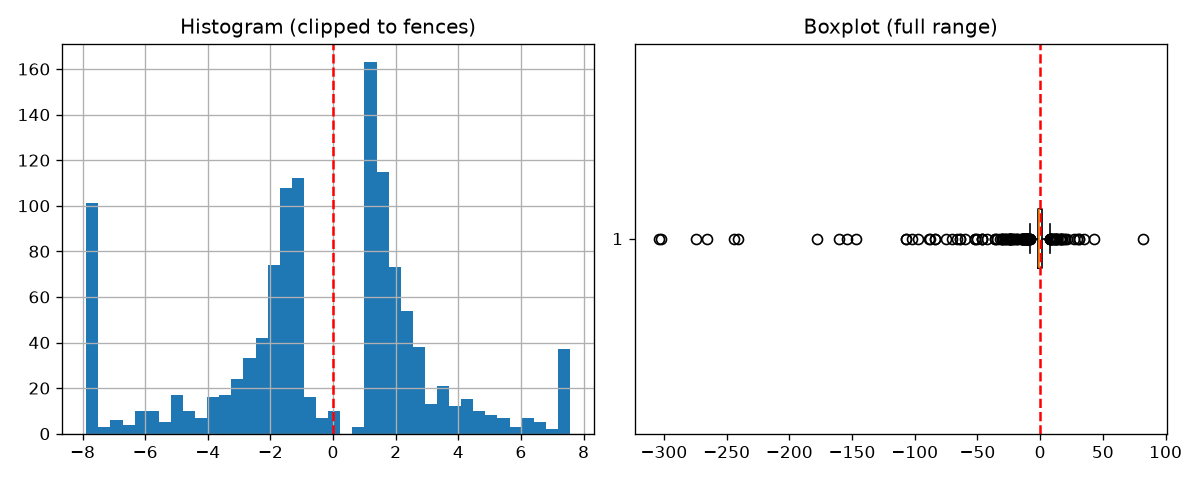
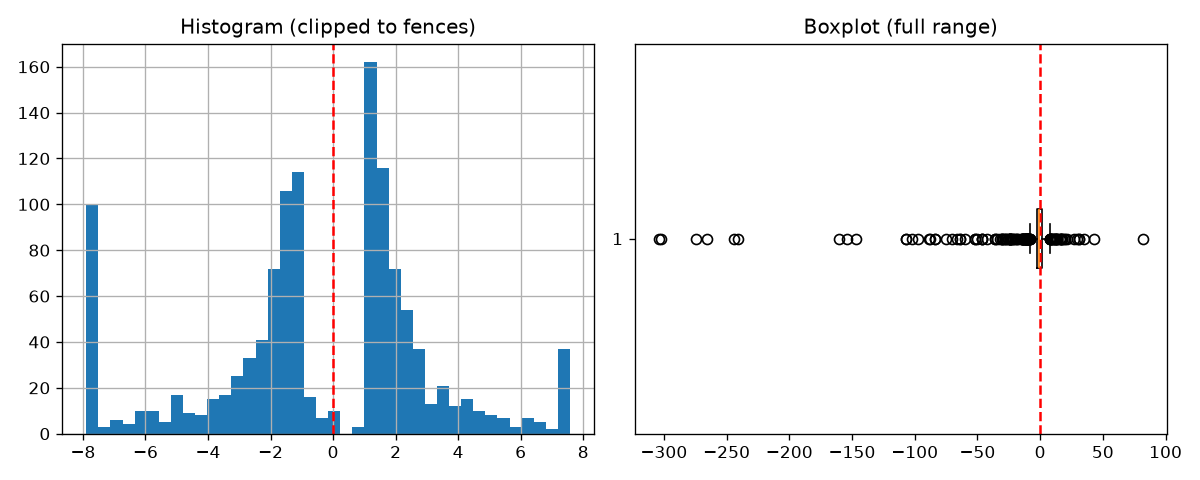
1. save only first img of a post (validate only first) 2. buffer the result, if more posts has the same img (first one) keep only the one with more engagement

diff --git a/scripts/filter.py b/scripts/filter.py
@@ -28,20 +28,20 @@ def _url_to_stem(url: str, char_limit: int = CHAR_LIMIT) -> str:
     return hashlib.sha256(url.encode()).hexdigest()[:char_limit]
 
 
-def _is_valid_post(data: dict, hash_map: dict[str, list[Path]]) -> tuple[list[Path]] | None:
+def _is_valid_post(data: dict, hash_map: dict[str, list[Path]]) -> Path | None:
     """
-    Checks if a post is valid based on the specified filters and returns the list of image paths if valid.
+    Checks if a post is valid based on the specified filters and returns the image representing it if valid.
 
     A post is valid if:
     - It has a score
-    - All its media items are photos and have a matching file in the hash map
+    - Its first media item is a photo and has a matching file in the hash map
 
     Args:
         data:     Parsed JSON object representing a single post.
         hash_map: Mapping from URL sha256 hash (filename stem) to the list of matching image paths.
 
     Returns:
-        A list of image paths associated with the post, or None if the post does not pass the filters.
+        The image path representing the post, or None if the post does not pass the filters.
     """
 
     if not isinstance(data, dict) or len(data) == 0:
@@ -59,35 +59,32 @@ def _is_valid_post(data: dict, hash_map: dict[str, list[Path]]) -> tuple[list[Pa
     if not media or not isinstance(media, list) or len(media) == 0:
         print(f"WARNING: post '{data.get('id')}' rejected for missing media.")
         return None
+    # Save only the first media (the one that represents more the post)
+    image = media[0]
 
-    images = []
-    for item in media:
-        # Reject the entire post if ANY media item is not a photo
-        if item.get("type") != "photo":
-            print(f"WARNING: post '{data.get('id')}' rejected for non-photo media item.")
-            return None
-        image_url = item.get("url") or item.get("full")
-        if not image_url:
-            print(f"WARNING: post '{data.get('id')}' rejected for missing image URL.")
-            return None
+    # Reject the post if its first media item is not a photo
+    if image.get("type") != "photo":
+        print(f"WARNING: post '{data.get('id')}' rejected for non-photo media item.")
+        return None
+    image_url = image.get("url") or image.get("full")
+    if not image_url:
+        print(f"WARNING: post '{data.get('id')}' rejected for missing image URL.")
+        return None
 
-        # Hash the URL the same way the file was named on disk
-        url_hash = _url_to_stem(image_url)
+    # Hash the URL the same way the file was named on disk
+    url_hash = _url_to_stem(image_url)
 
-        # Dictionary lookup
-        founds = hash_map.get(url_hash, [])
-        if not founds:
-            print(f"WARNING: post '{data.get('id')}' rejected for missing image file for URL.")
-            return None
-        # With a full-length hash this is always a single file; more than one means a truncated-hash collision (different URLs sharing a stem)
-        if len(founds) > 1:
-            print(f"WARNING: hash collision for stem '{url_hash}': {founds}")
-            return None
+    # Dictionary lookup
+    founds = hash_map.get(url_hash, [])
+    if not founds:
+        print(f"WARNING: post '{data.get('id')}' rejected for missing image file for URL.")
+        return None
+    # With a full-length hash this is always a single file; more than one means a truncated-hash collision (different URLs sharing a stem)
+    if len(founds) > 1:
+        print(f"WARNING: hash collision for stem '{url_hash}': {founds}")
+        return None
 
-        # Append all found images
-        images.extend(founds)
-
-    return images
+    return founds[0]
 
 
 def _build_hash_map(images: Path) -> dict[str, list[Path]] | None:
@@ -130,6 +127,8 @@ def filter(dataset: Path = DATASET_FILE, dataset_images: Path = DATASET_IMGS_DIR
     if not dataset.is_file() or not dataset_images.is_dir():
         print("ERROR: dataset or images directory not found.")
         return
+    # Resolve the images dir once — avoids one .resolve() call per image in the loop
+    resolved_images_dir = dataset_images.resolve()
 
 
     # Build the hash map
@@ -140,10 +139,6 @@ def filter(dataset: Path = DATASET_FILE, dataset_images: Path = DATASET_IMGS_DIR
         return
 
 
-    # Resolve the images dir once — avoids one .resolve() call per image in the loop
-    resolved_images_dir = dataset_images.resolve()
-
-
     # Create the output directories if they don't exist
     output_csv.parent.mkdir(parents=True, exist_ok=True)
     output_images.mkdir(parents=True, exist_ok=True)
@@ -151,9 +146,8 @@ def filter(dataset: Path = DATASET_FILE, dataset_images: Path = DATASET_IMGS_DIR
 
     # Filter
     try:
-        # buffering=1<<16 (64KB) reduces the number of disk writes significantly on large outputs compared to the default line-by-line flushing
         with open(dataset, mode="r", encoding="utf-8") as infile, \
-             open(output_csv, mode="w", encoding="utf-8", newline="", buffering=1 << 16) as outfile:
+             open(output_csv, mode="w", encoding="utf-8", newline="") as outfile:
 
             # Define the CSV columns
             cols = ["id", "crowdtangle_score", "filename"]
@@ -163,8 +157,8 @@ def filter(dataset: Path = DATASET_FILE, dataset_images: Path = DATASET_IMGS_DIR
             writer.writeheader()
 
 
-            # Buffer the kept rows so the output can be sorted
-            rows = []
+            # Buffer to keep only the best-performing post for each image (same filename stem)
+            best = {}
             for line in infile:
                 try:
                     data = json.loads(line)
@@ -173,27 +167,34 @@ def filter(dataset: Path = DATASET_FILE, dataset_images: Path = DATASET_IMGS_DIR
                     continue
 
                 # Filters
-                images = _is_valid_post(data, hash_map)
-                if not images:
+                image = _is_valid_post(data, hash_map)
+                if image is None:
                     continue
 
-                for image in images:
-                    # Save only interesting columns
-                    rows.append({
-                        "id":                 data.get("id"),
-                        "crowdtangle_score":  data.get("score"),
-                        "filename":           image.stem
-                    })
+                # Save only interesting columns
+                row = {
+                    "id":                 data.get("id"),
+                    "crowdtangle_score":  data.get("score"),
+                    "filename":           image.stem
+                }
 
-                    # Create a symlink for the image
-                    symlink = output_images / image.name
-                    if not (symlink.exists() or symlink.is_symlink()):
-                        symlink.symlink_to(resolved_images_dir / image.name)
+                # May be a duplicate image (same filename stem) across multiple posts, keep only the best-performing post for each image
+                current = best.get(row["filename"])
+                if current is None or row["crowdtangle_score"] > current[0]["crowdtangle_score"]:
+                    best[row["filename"]] = (row, image)
+
 
             # Order the output by filename (hash stem), ascending
-            rows.sort(key=lambda row: row["filename"])
-            writer.writerows(rows)
+            rows = sorted(best.values(), key=lambda item: item[0]["filename"])
 
+            for row, image in rows:
+                # Write the row to the CSV
+                writer.writerow(row)
+
+                # Create symlink
+                symlink = output_images / image.name
+                if not (symlink.exists() or symlink.is_symlink()):
+                    symlink.symlink_to(resolved_images_dir / image.name)
         print("Dataset filtered and saved successfully.")
 
     except Exception as e:
